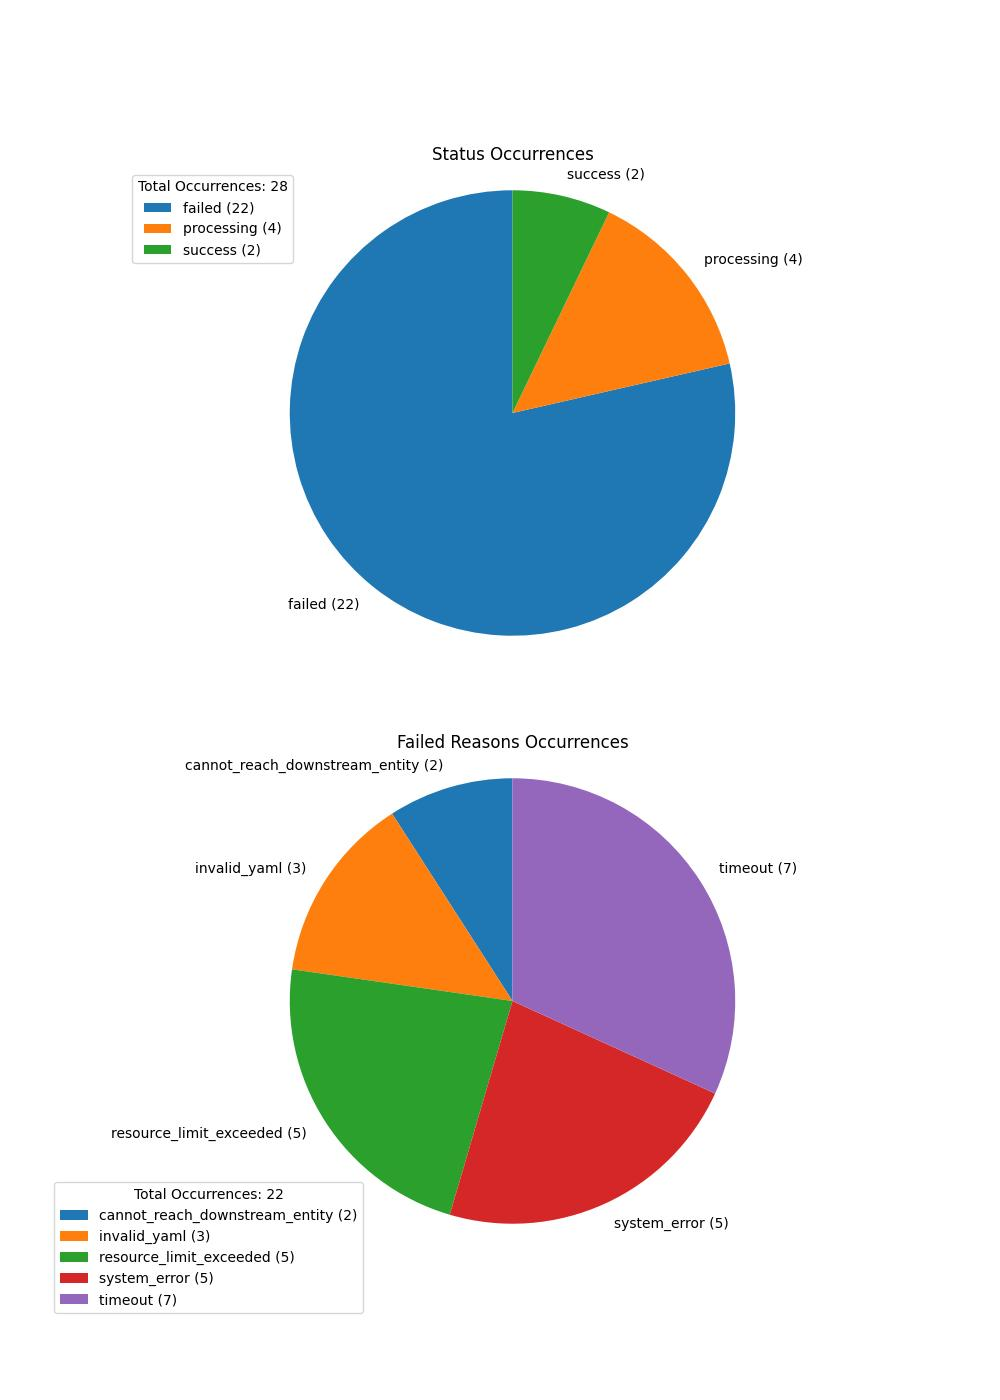
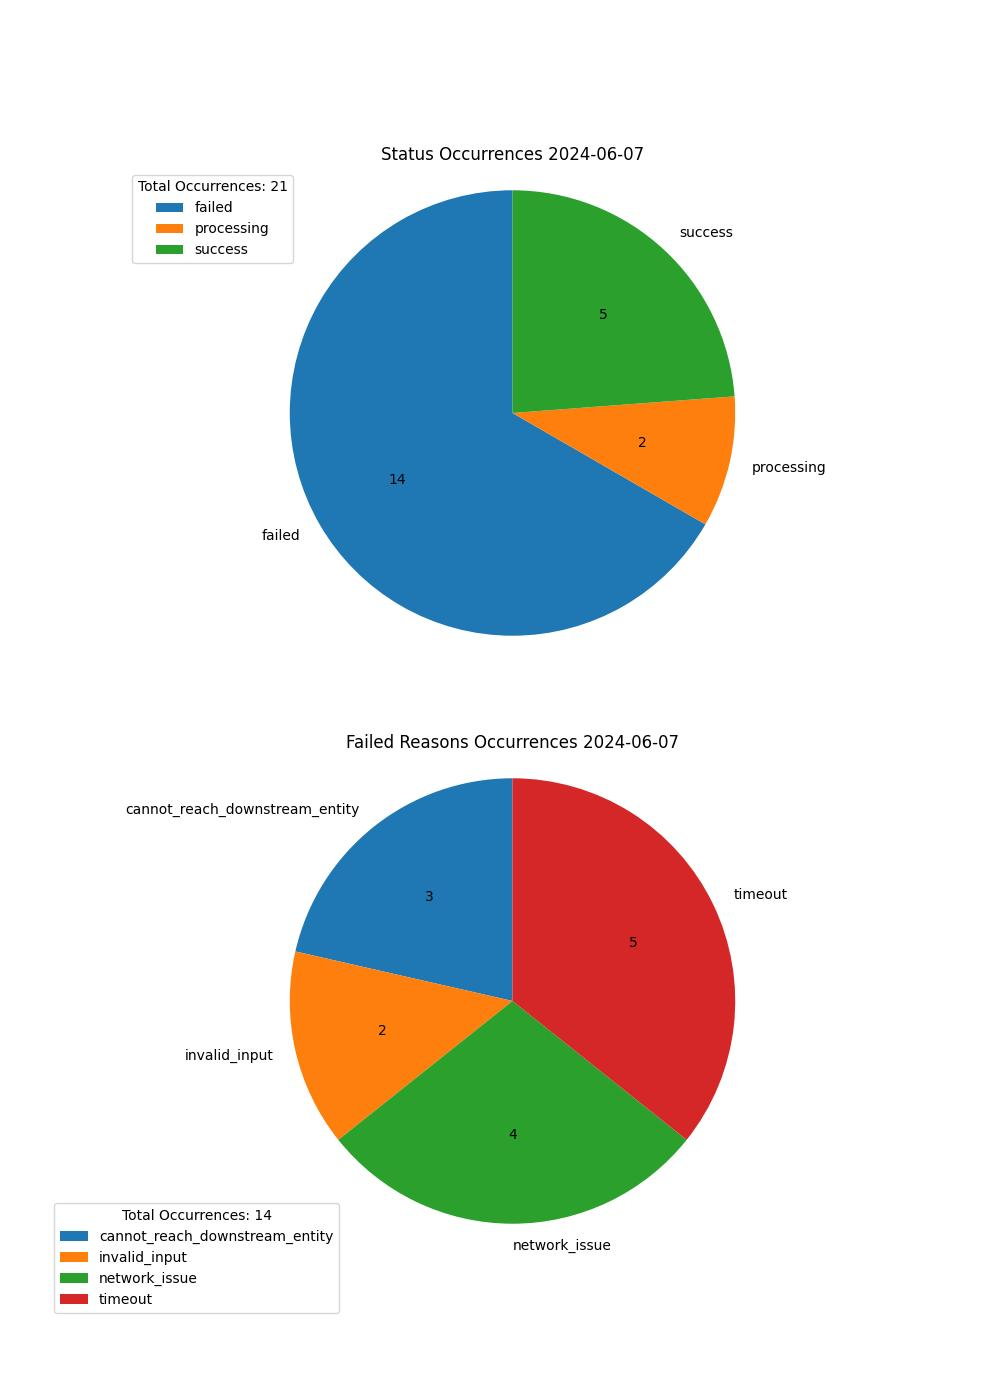
Add run.sh and improve scripts by adding arguments and options

diff --git a/python-visualize/visualize.py b/python-visualize/visualize.py
@@ -1,40 +1,84 @@
+import argparse
 import pandas as pd
 import matplotlib.pyplot as plt
 import os
+from datetime import date
 
-# Read the CSV file
-df = pd.read_csv("../pipeline_job_summary.csv")
+def create_pie_chart(csv_path, output_filename):
+    """
+    Creates a pie chart from a CSV file and saves it as a JPG image.
 
-# Strip any leading/trailing spaces from the column names
-df.columns = df.columns.str.strip()
+    Args:
+        csv_path (str): Path to the CSV file containing data.
+        output_filename (str): Desired filename (including .jpg extension) for the pie chart.
+    """
+    # Check if data file exists
+    if not os.path.exists(csv_path):
+        print(f"Error: Data file '{csv_path}' does not exist.")
+        return
 
-# Group by status and sum occurrences
-status_counts = df.groupby('Status')['Occurrences'].sum()
+    # Validate output filename extension
+    if not output_filename.endswith(".jpg"):
+        output_filename += ".jpg"
+        print(f"Warning: Output filename '{output_filename}' modified to end with '.jpg'.")
 
-# Create the main pie chart
-fig, (ax1, ax2) = plt.subplots(2, 1, figsize=(10, 14))
+    # Define date today
+    today = date.today()
 
-ax1.pie(status_counts, labels=[f'{index} ({value})' for index, value in status_counts.items()], startangle=90)
-ax1.axis('equal')  # Equal aspect ratio ensures that pie is drawn as a circle.
-ax1.set_title('Status Occurrences')
+    # Read the CSV file
+    df = pd.read_csv(csv_path)
 
-# Filter 'failed' status and group by reason
-failed_df = df[df['Status'] == 'failed']
-reason_counts = failed_df.groupby('Reason')['Occurrences'].sum()
+    # Strip any leading/trailing spaces from the column names
+    df.columns = df.columns.str.strip()
 
-# Create the pie chart for 'failed' reasons
-ax2.pie(reason_counts, labels=[f'{index} ({value})' for index, value in reason_counts.items()], startangle=90)
-ax2.axis('equal')  # Equal aspect ratio ensures that pie is drawn as a circle.
-ax2.set_title('Failed Reasons Occurrences')
+    # Group by status and sum occurrences
+    status_counts = df.groupby('Status')['Occurrences'].sum()
 
-# Add total occurrences in the legend for both charts
-total_occurrences = status_counts.sum()
-ax1.legend(title=f'Total Occurrences: {total_occurrences}', loc='upper left')
-ax2.legend(title=f'Total Occurrences: {reason_counts.sum()}', loc='lower left', bbox_to_anchor=(-0.10, -0.15), ncol=1)
+    # Function to format percent labels
+    def autopct_format(values):
+        def my_format(pct):
+            total = sum(values)
+            val = int(round(pct*total/100.0))
+            return '{v:d}'.format(v=val)
+        return my_format
 
-# Save the pie charts as a JPG file
-plt.savefig('../pipeline_job_summary.jpg')
+    # Create the main pie chart
+    fig, (ax1, ax2) = plt.subplots(2, 1, figsize=(10, 14))
 
-parent_directory = os.path.dirname(os.getcwd())
-print(f'Pie chart saved in: {parent_directory}/pipeline_job_summary.jpg')
 
+
+    ax1.pie(status_counts, labels=[f'{index}' for index, value in status_counts.items()], autopct = autopct_format(status_counts), startangle=90)
+    ax1.axis('equal')  # Equal aspect ratio ensures that pie is drawn as a circle.
+    ax1.set_title(f'Status Occurrences {today}')
+
+    # Filter 'failed' status and group by reason
+    failed_df = df[df['Status'] == 'failed']
+    reason_counts = failed_df.groupby('Reason')['Occurrences'].sum()
+
+    # Create the pie chart for 'failed' reasons
+    ax2.pie(reason_counts, labels=[f'{index}' for index, value in reason_counts.items()], autopct = autopct_format(reason_counts), startangle=90)
+    ax2.axis('equal')  # Equal aspect ratio ensures that pie is drawn as a circle.
+    ax2.set_title(f'Failed Reasons Occurrences {today}')
+
+    # Add total occurrences in the legend for both charts
+    total_occurrences = status_counts.sum()
+    ax1.legend(title=f'Total Occurrences: {total_occurrences}', loc='upper left')
+    ax2.legend(title=f'Total Occurrences: {reason_counts.sum()}', loc='lower left', bbox_to_anchor=(-0.10, -0.15), ncol=1)
+
+    # Save the pie charts as a JPG file
+    plt.savefig(output_filename)
+
+    parent_directory = os.path.dirname(os.getcwd())
+    print(f'Pie chart saved in: {parent_directory}/{output_filename}')
+
+if __name__ == "__main__":
+  # Parse arguments using argparse
+  parser = argparse.ArgumentParser(description="Generate pie chart from CSV data")
+  parser.add_argument("-f", "--csv_path", default=f'{os.getcwd()}/pipeline_job_summary.csv',
+                      help=f'Path to the CSV data file (default: {os.getcwd()}/pipeline_job_summary.csv)')
+  parser.add_argument("-o", "--output_filename", default="pipeline_job_summary.jpg",
+                      help="Desired filename (including .jpg extension) for the pie chart (default: pipeline_job_summary.jpg)")
+  args = parser.parse_args()
+
+  # Call the function with arguments
+  create_pie_chart(args.csv_path, args.output_filename)
